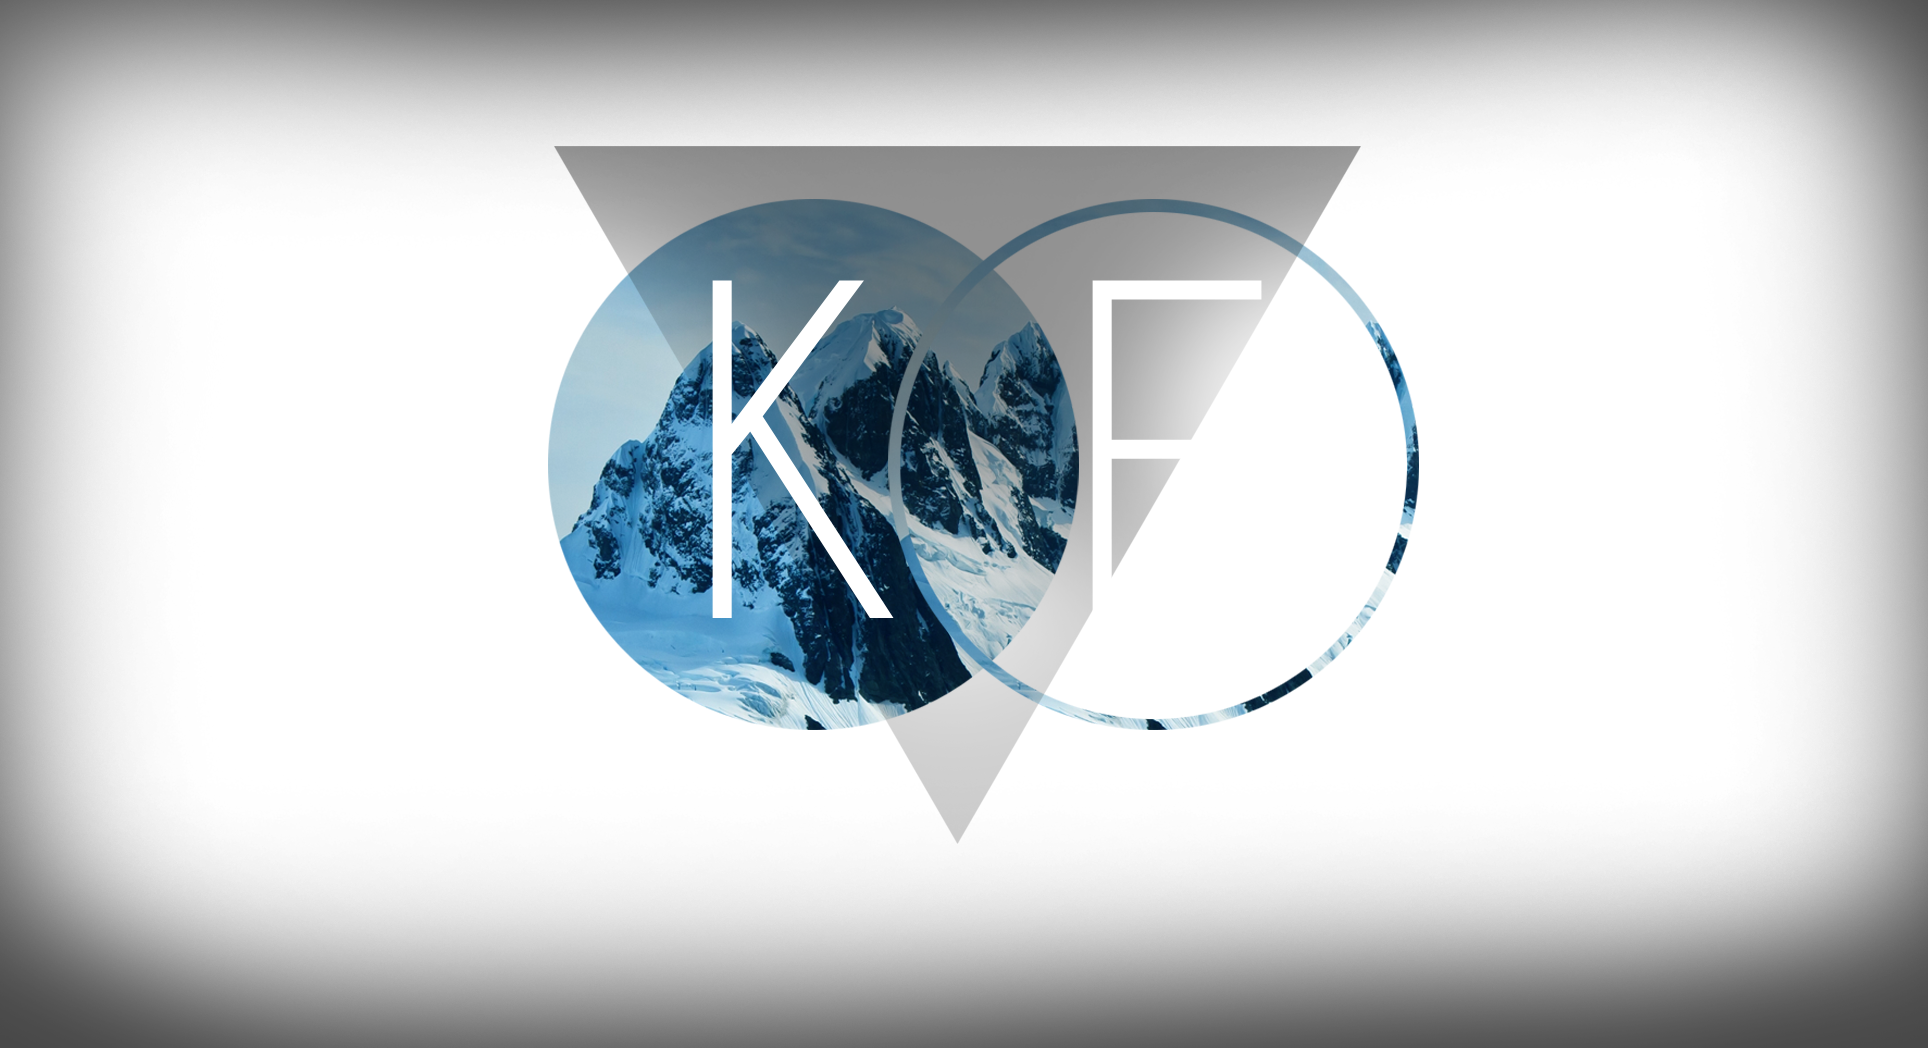
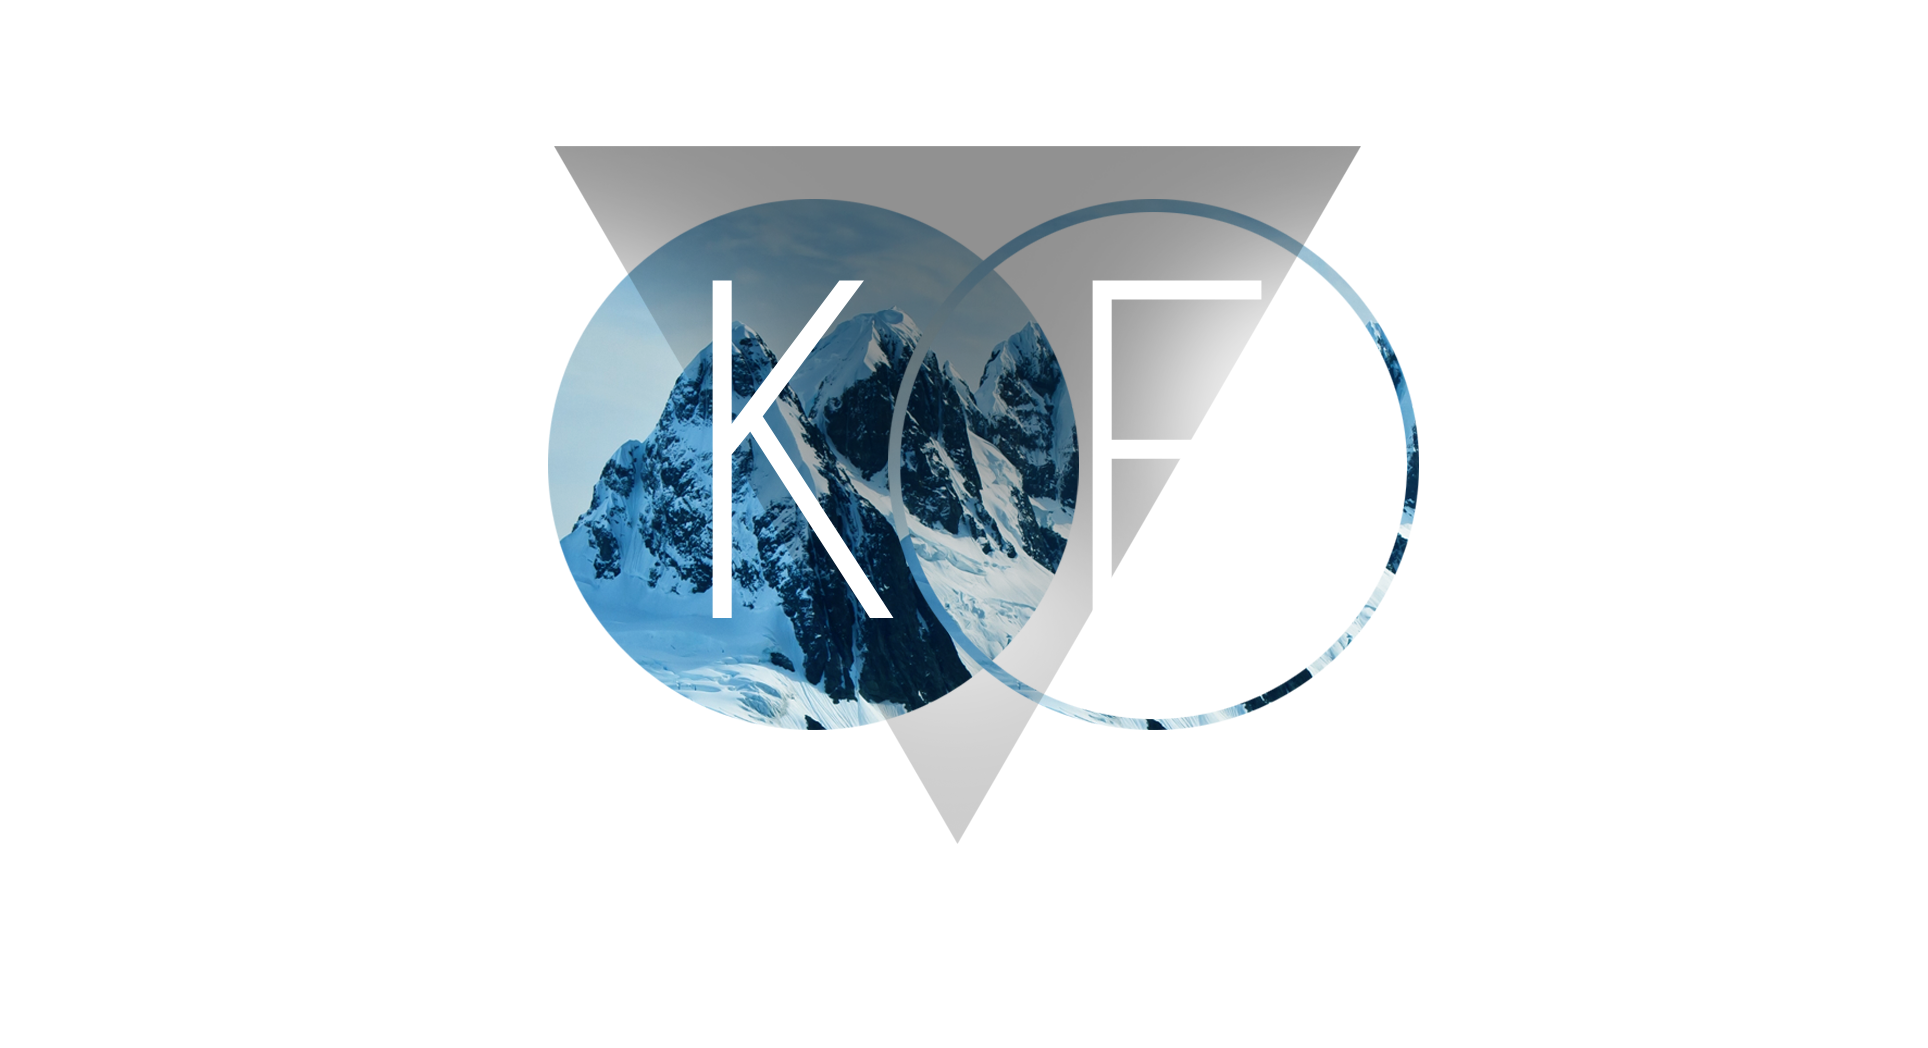
Fixing first slide

diff --git a/KE.css b/KE.css
@@ -9,12 +9,16 @@ html, body {
 
 .header {
 	position: fixed;
+	top: 0;
+	left: 0;
+	right: 0;
 	z-index: 100;
 	width: 100%;
 	background-color: rgba(0, 0, 0, 0.5);
 }
 
 .main-menu {
+	top: 0;
 	width: 90%;
 	max-height: 200px;
 	margin: 0 auto;
@@ -23,7 +27,7 @@ html, body {
 }
 
 .logo {
-	height: 150px;
+	height: 125px;
 	vertical-align: middle;
 
 	transition: .5s all;
@@ -31,9 +35,9 @@ html, body {
 
 .main-menu-item {
 	display: inline-block;
-	width: 150px;
-	height: 150px;
-	line-height: 150px;
+	width: 170px;
+	height: 125px;
+	line-height: 125px;
 	text-decoration: none;
 	font-size: 2em;
 	color: white !important;
@@ -44,8 +48,9 @@ html, body {
 }
 
 .main-menu-item:hover {
-	letter-spacing: .2em;
+	letter-spacing: .25em;
 	text-decoration: underline;
+	color: #428cb2 !important;
 }
 
 
@@ -54,10 +59,11 @@ html, body {
 /*  PAGE SLIDES/SECTIONS  */
 
 .page-slide, .slide1 div {
-	background-size: 100%;
-	width: 110%;
-	height: 100%;
+	width: 100vw;
+	height: 100vh;
 	overflow: hidden;
+
+	transition: .3s background-position ease-out;
 }
 
 
@@ -69,26 +75,36 @@ html, body {
 
 .slide1-1 {
 	background: url(images/back1.png) center no-repeat;
+	background-size: 80vw;
 	z-index: 10;
 }
 
 .slide1-2 {
-	background: url(images/back2.gif) center no-repeat;
-	background-size: 120% 100%;
+	background: url(images/back2.gif) no-repeat;
 	z-index: 9;	
 }
 
 .slide1-3 {
-	background: url(images/back3.png) no-repeat;
+	background: url(images/back3.png) center no-repeat;
 	z-index: 8;
 }
 
 .slide1-4 {
-	background: url(images/back4.jpg) center no-repeat;
+	background: url(images/back4.jpg) top;
+	background-size: 100vw auto;
 	z-index: 7;	
 }
 
+.slide1-5 {
+	background: url(images/back5.png) center no-repeat;
+	background-size: 100vw 100vh;
+	z-index: 11;	
+}
 
+.moving-slide {
+	background-position: -50px 46px;
+	background-size: 110vw auto;	
+}
 
 
 .slide2 {

diff --git a/KE.js b/KE.js
@@ -3,9 +3,11 @@ $(window).scroll(function (event) {
     
     if(scroll > 10) {
     	$(".main-menu-item, .logo").css({height:100}, 300);
+    	$(".main-menu-item").css({lineHeight:"100px"}, 300);
     }
     else {
-		$(".main-menu-item, .logo").css({height:150}, 300);	
+		$(".main-menu-item, .logo").css({height:125}, 300);
+		$(".main-menu-item").css({lineHeight:"125px"}, 300);
     }
 });
 
@@ -13,10 +15,8 @@ $(window).scroll(function (event) {
 $(document).ready(function() {
 	slide2 = $("#slide1-2");
 	slide3 = $("#slide1-3");
-	slide4 = $("#slide1-4");
-	moveBackground(slide2, 25);
-	moveBackground(slide3, 5);
-	//moveBackground(slide4, 5);
+	moveBackground(slide2, 35);
+	moveBackground(slide3, 10);
 });
 
 
@@ -24,15 +24,16 @@ function moveBackground (el, strength) {
 	var movementStrength = strength;
 	var height = movementStrength / $(window).height();
 	var width = movementStrength / $(window).width();
-	$("#slide1-1").mousemove(function(e){
+	$("#slide1-5").mousemove(function(e){
 	          var pageX = e.pageX - ($(window).width() / 2);
 	          var pageY = e.pageY - ($(window).height() / 2);
-	          var newvalueX = width * pageX * -1;
-	          var newvalueY = height * pageY * -1;
+	          var newvalueX = (width * pageX * -1) -50;
+	          var newvalueY = (height * pageY * -1) +50;
 	          el.css("background-position", newvalueX+"px     "+newvalueY+"px");
+	          //el.css("background-position", newvalueX+"px     50%");
 	});
 }
 
 
-
 // jQuery( '.slide1-1' ).parallax( options );
+

diff --git a/index.html b/index.html
@@ -24,9 +24,10 @@
 
 	<section id="slide1" class="page-slide slide1">
 		<div id="slide1-1" class="slide1-1"></div>
-		<div id="slide1-2" class="slide1-2"></div>
-		<div id="slide1-3" class="slide1-3"></div>
+		<div id="slide1-2" class="slide1-2 moving-slide"></div>
+		<div id="slide1-3" class="slide1-3 moving-slide"></div>
 		<div id="slide1-4" class="slide1-4"></div>
+		<div id="slide1-5" class="slide1-5"></div>
 	</section>
 
 	<section id="slide2" class="page-slide slide2">
